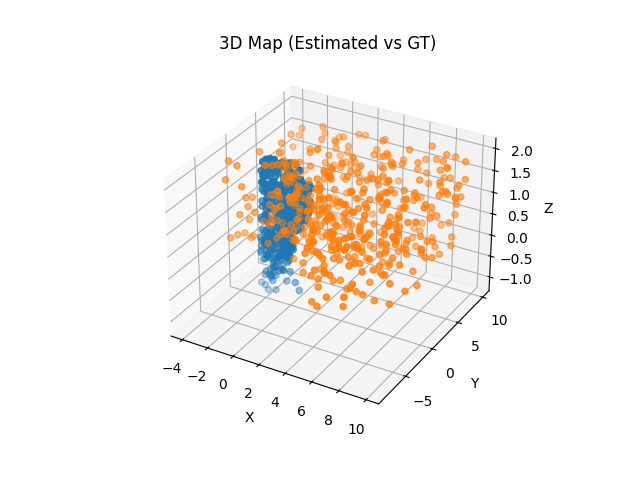
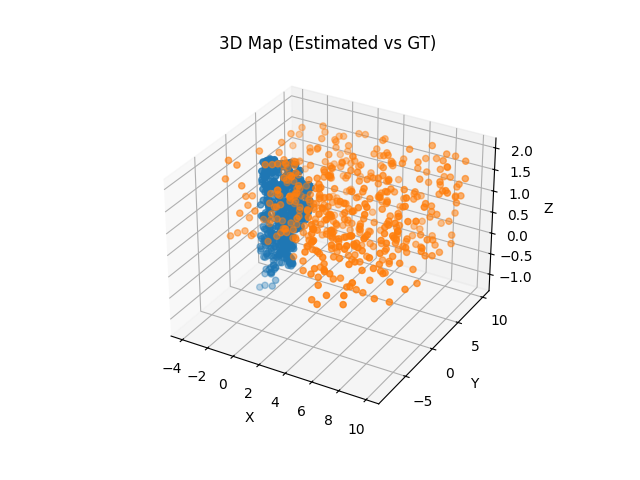
update visual_odemetry.py

Changed region(s): [[0.25, 0.25, 0.8438, 0.6562], [0.5938, 0.625, 0.625, 0.6562]]

diff --git a/vo/visual_odometry.py b/vo/visual_odometry.py
@@ -121,7 +121,19 @@ class VisualOdometry:
                 X_cam_curr = transform_point(T_new, X)
 
                 if X_cam_prev[2] > 0 and X_cam_curr[2] > 0:
-                    self.landmarks[actual_id] = X
+
+                    # Compute viewing rays
+                    r1 = X_cam_prev / np.linalg.norm(X_cam_prev)
+                    r2 = X_cam_curr / np.linalg.norm(X_cam_curr)
+
+                    cos_angle = np.clip(np.dot(r1, r2), -1.0, 1.0)
+                    angle = np.arccos(cos_angle)
+
+                    # Minimum triangulation angle threshold (in radians)
+                    min_angle = np.deg2rad(1.0)  # 1 degree
+
+                    if angle > min_angle:
+                        self.landmarks[actual_id] = X
 
         self.prev_keypoints = kpts
         self.prev_descriptors = descriptors
